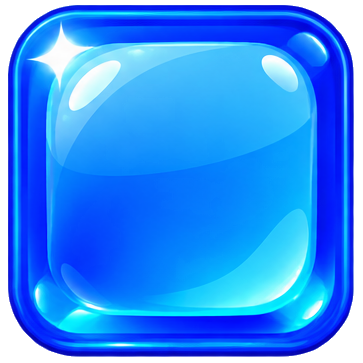
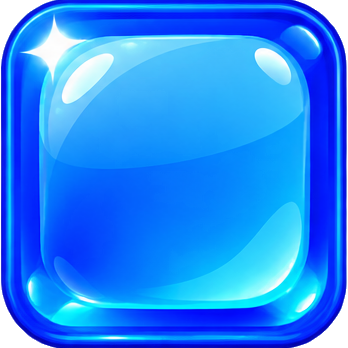
Crop block art flush, removing the last transparent margin
v2's alpha-bbox crop added a 3% safety margin around each block's
bounding box, which left several pixels of dead transparent space
around the actual content -- visible as a gap once blocks sit
edge-to-edge on the board. Changed the margin factor from 1.03 to
0.99 (flush, very slightly trimmed) so the crop starts right at the
block's real edge. Verified via raw alpha profile: content now
starts at pixel 0-1 instead of pixel 8.

diff --git a/CLAUDE.md b/CLAUDE.md
@@ -93,21 +93,27 @@ machine — see [[user_dev_machine_tooling]]) went through two versions:
   cell — wasted space — and the distance-threshold approach let a sliver
   of the *neighboring* tile's color bleed into the crop along shared edges
   in a couple of cases.
-- **v2** (current, after the user regenerated the source sheet with a real
-  alpha channel): crops per-tile using the *actual alpha data* instead —
-  scan each nominal `sheetW/4 x sheetH/2` region for the tight bounding box
-  of pixels at or above an alpha threshold (128), then crop a **square**
-  centered on that bounding box (side = `max(bboxW, bboxH) * 1.03`, small
-  margin), so every output PNG is exactly square and sized to the actual
-  block art, not the sheet's nominal (non-square) grid cell. A final pass
-  hard-zeros any pixel with alpha below 60 within the crop, since the
-  source's soft glow/feather can leave a faint semi-transparent halo out to
-  a fairly wide radius that would otherwise blend into an adjacent board
-  cell's own art once tiled. If the sprite sheet is ever regenerated again,
-  re-run this alpha-bbox approach rather than reverting to fixed-size
-  cropping or a color-distance chroma key — both were the actual bugs the
-  user reported ("cut to exact square dimensions," "remove background with
-  leftover pixels") that this version fixed.
+- **v2** (after the user regenerated the source sheet with a real alpha
+  channel): crops per-tile using the *actual alpha data* instead — scan
+  each nominal `sheetW/4 x sheetH/2` region for the tight bounding box of
+  pixels at or above an alpha threshold (128), then crop a **square**
+  centered on that bounding box, so every output PNG is exactly square and
+  sized to the actual block art, not the sheet's nominal (non-square) grid
+  cell. A final pass hard-zeros any pixel with alpha below 60 within the
+  crop, since the source's soft glow/feather can leave a faint
+  semi-transparent halo that would otherwise blend into an adjacent board
+  cell's own art once tiled. v2 used `side = max(bboxW, bboxH) * 1.03` (a
+  3% safety margin), which turned out to leave a visible few-pixel fully-
+  transparent border around the block — harmless in isolation, but visible
+  as a gap once cells sit edge-to-edge on the board.
+- **v3** (current): same alpha-bbox approach, but `side = max(bboxW,
+  bboxH) * 0.99` (flush, very slightly trimmed) instead of `* 1.03` — the
+  block's own content now starts at pixel 0-1 of the image with no
+  transparent margin. If the sprite sheet is ever regenerated again, reuse
+  this v3 alpha-bbox-with-flush-crop approach — v1's fixed-size/chroma-key
+  crop and v2's `1.03` margin were both real bugs the user caught from
+  screenshots ("cut to exact square dimensions," "remove background with
+  leftover pixels," "still trash pixels around each block, crop tighter").
 
 **`lib/game/game_engine.dart`** (`GameEngine extends ChangeNotifier`) is the
 whole game's logic, deliberately Flutter-widget-free so it's unit-testable
